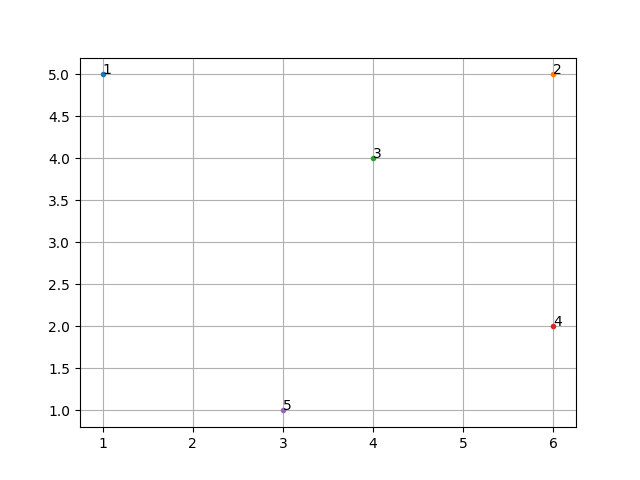
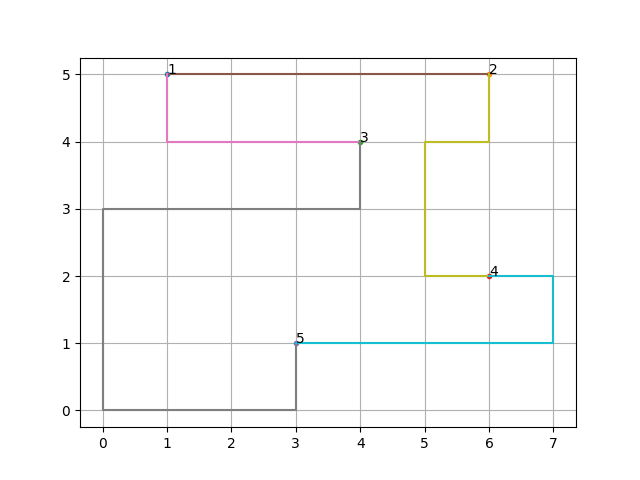
visualization 1.1

diff --git a/loader.py b/loader.py
@@ -1,8 +1,10 @@
 import csv
+from ast import literal_eval
 
 
-filename_grid = "data/gates&netlists/chip_0/print_0.csv"
-filename_netlist = "data/gates&netlists/chip_0/netlist_1.csv"
+filename_grid = "data/gates&netlists/example/print_0.csv"
+filename_netlist = "data/gates&netlists/example/netlist_1.csv"
+filename_output = "example/output.csv"
 
 
 def load_netlist(filename_netlist):
@@ -38,6 +40,25 @@ def load_grid(filename_grid):
             coordinates_int = tuple(map(int, coordinates))
             
             gate_coord_dict[gate] = coordinates_int
-        
-        # print(gate_coord_dict)
+
         return (gate_coord_dict)
+
+
+def load_output(filename_output):
+    paths = []
+
+    with open(filename_output) as file:
+        csvreader = csv.reader(file, delimiter=',')
+
+        # skips headers of csv
+        next(csvreader)
+
+        for row in csvreader:
+            if "chip" in row[0]:
+                break
+            coordinates = literal_eval(row[1])
+            paths.append(coordinates)
+    
+    return (paths)
+
+

diff --git a/visualization.py b/visualization.py
@@ -4,6 +4,7 @@ from loader import *
 output_file_name = "grid.png"
 filename_grid = "data/gates&netlists/chip_0/print_0.csv"
 filename_netlist = "data/gates&netlists/chip_0/netlist_1.csv"
+filename_output = "example/output.csv"
 
 def print_grid():
 
@@ -16,5 +17,21 @@ def print_grid():
 
     plt.grid(visible=True, which='major', axis="both")
     plt.savefig(output_file_name)
+
+    paths = load_output(filename_output)
+    print(paths)
+    
+    for path in paths:
+        x_list = []
+        y_list = []
+        for coord in path:
+            x_list.append(coord[0])
+            y_list.append(coord[1])
+        
+        # print(x_list)
+        # print(y_list)
+        plt.plot(x_list, y_list)
+
+    plt.savefig(output_file_name)       
 
 print_grid()
